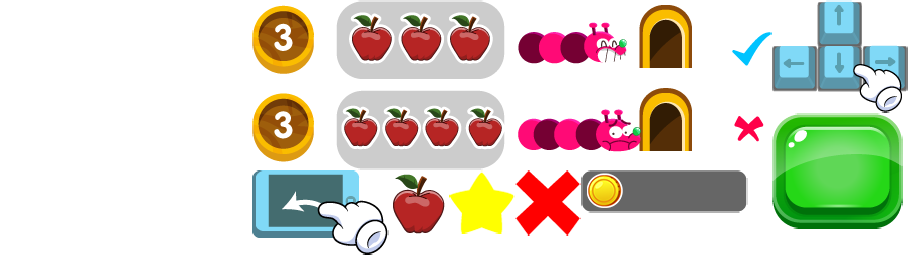
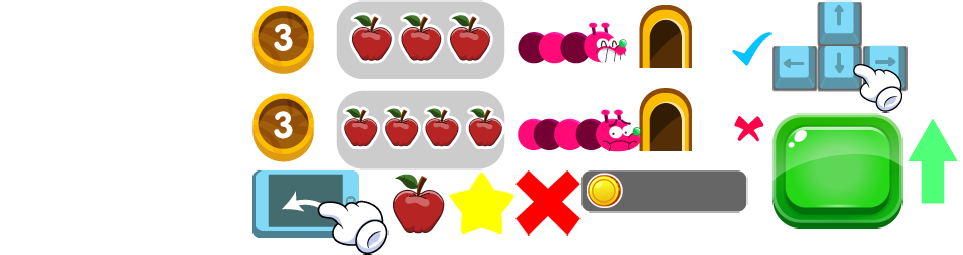
countipede postupdates completed

diff --git a/nonrefactored/countipede/countipede/js/scenes/countip.js b/nonrefactored/countipede/countipede/js/scenes/countip.js
@@ -68,7 +68,7 @@ var countip = function(){
 	var gameIndex = 54
 	var tutoGroup
 	var countipSong
-	var heartsGroup = null
+	var exitArrow
 	var timeValue
 	var quantNumber
 	var inputsEnabled
@@ -168,6 +168,14 @@ var countip = function(){
 		apple.anchor.setTo(0.5, 0.5)
 		apple.kill()
 
+		exitArrow = wormGroup.create(0,0, "atlas.countip", "arrow")
+		exitArrow.anchor.setTo(0.5, 0.5)
+		exitArrow.x = - hitBox.width * 0.5 + 60
+		exitArrow.y = - hitBox.height * 0.5 + 100
+		exitArrow.alpha = 0
+		game.add.tween(exitArrow).to({y: exitArrow.y - 20}, 400, Phaser.Easing.Sinusoidal.Out, true).yoyo(true).loop(true)
+		wormGroup.sendToBack(exitArrow)
+
 	}
 
 	function createPart(key){
@@ -221,17 +229,17 @@ var countip = function(){
 
 	}
 
-	function addNumberPart(obj,number){
-
+	function addNumberPart(obj,number, offsetY){
+		offsetY = offsetY || 100
 		var fontStyle = {font: "38px VAGRounded", fontWeight: "bold", fill: "#ffffff", align: "center"}
 
 		var pointsText = new Phaser.Text(sceneGroup.game, 0, 5, number, fontStyle)
-		pointsText.x = obj.world.x
-		pointsText.y = obj.world.y
+		pointsText.x = obj.world ? obj.world.x : obj.centerX
+		pointsText.y = obj.world ? obj.world.y : obj.centerY
 		pointsText.anchor.setTo(0.5,0.5)
 		sceneGroup.add(pointsText)
 
-		game.add.tween(pointsText).to({y:pointsText.y + 100},800,Phaser.Easing.linear,true)
+		game.add.tween(pointsText).to({y:pointsText.y + offsetY},800,Phaser.Easing.linear,true)
 		game.add.tween(pointsText).to({alpha:0},250,Phaser.Easing.linear,true,500)
 
 		pointsText.setShadow(3, 3, 'rgba(0,0,0,0.5)', 0);
@@ -607,15 +615,15 @@ var countip = function(){
 
 		console.log(worm.number)
 		if(worm.number === answer){
-			worm.correctParticle.x = game.world.centerX - 175
-			worm.correctParticle.y = game.world.centerY - 300
+			worm.correctParticle.x = wormGroup.wormCounter.world.x
+			worm.correctParticle.y = wormGroup.wormCounter.world.y
 			worm.correctParticle.start(true, 1000, null, 5)
 			hideTexts()
 			game.time.events.add(1200, startRound)
 			addPoint(5)
 		}else {
-			worm.wrongParticle.x = game.world.centerX - 175
-			worm.wrongParticle.y = game.world.centerY - 300
+			worm.wrongParticle.x = wormGroup.wormCounter.world.x
+			worm.wrongParticle.y = wormGroup.wormCounter.world.y
 			worm.wrongParticle.start(true, 1000, null, 5)
 			stopGame()
 		}
@@ -670,6 +678,11 @@ var countip = function(){
 			game.add.tween(apple).to({alpha:0}, 500, Phaser.Easing.Cubic.Out, true)
 			game.add.tween(apple.scale).to({x:0.4, y:0.4}, 500, Phaser.Easing.Back.Out, true)
 			worm.number = worm.circles.length - 1
+
+			if(exitArrow.alpha > 0){
+				game.add.tween(exitArrow).to({alpha:0}, 400, Phaser.Easing.Cubic.Out, true)
+			}
+
 			hideWorm()
 		}
 	}
@@ -809,6 +822,12 @@ var countip = function(){
 			}
 		}
 	}
+
+	function guideToExit(){
+		if((worm.circles.length - 1 === answer)&&(roundCounter === 0)){
+			game.add.tween(exitArrow).to({alpha:1}, 400, Phaser.Easing.Cubic.Out, true)
+		}
+	}
 	
 	function update() {
 
@@ -878,15 +897,38 @@ var countip = function(){
 		var collision = checkCollision(checkRect)
 		if(!apple.collided) {
 			if (collision) {
-				addCircleWorm()
-				sound.play("bite")
-				apple.collided = true
-				game.add.tween(apple).to({alpha:0}, 500, Phaser.Easing.Cubic.Out, true)
-				var appleDissapear = game.add.tween(apple.scale).to({x:0.4, y:0.4}, 500, Phaser.Easing.Back.Out, true)
-				appleDissapear.onComplete.add(function(){
-					apple.kill()
-					addRandomApple()
-				})
+				if(worm.circles.length <= answer){
+					addCircleWorm()
+					sound.play("bite")
+					apple.collided = true
+					addNumberPart(worm,'+' + 1, -20)
+					game.add.tween(apple).to({alpha:0}, 500, Phaser.Easing.Cubic.Out, true)
+					var appleDissapear = game.add.tween(apple.scale).to({x:0.4, y:0.4}, 500, Phaser.Easing.Back.Out, true)
+					appleDissapear.onComplete.add(function(){
+						apple.kill()
+						var numCircles = worm.circles.length - 1
+						if((roundCounter > 0)||(numCircles < answer))
+							addRandomApple()
+					})
+					guideToExit()
+				}
+				else{
+					var fontStyle = {font: "55px VAGRounded", fontWeight: "bold", fill: "#ff231a", align: "center"}
+					var numberText = new Phaser.Text(game, apple.world.x, apple.world.y + 10, worm.circles.length, fontStyle)
+					numberText.anchor.setTo(0.5, 0.5)
+					numberText.setShadow(3, 3, 'rgba(1,1,1,0.5)', 0);
+					sceneGroup.add(numberText)
+
+					worm.setAnimation(["LOSE"])
+
+					isActive = false
+					worm.wrongParticle.x = apple.world.x
+					worm.wrongParticle.y = apple.world.y
+					worm.wrongParticle.start(true, 1000, null, 5)
+					stopGame()
+
+				}
+
 			}
 		}
 
